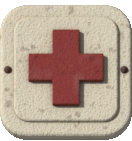
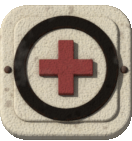
UI TWO WIP (rule 232(b)): the HEAL mark rendered as a medic's cross inside a ring through the rig; the ring's place measured into phone.json; the record
Claude-Session: https://claude.ai/code/session_01MoC3XDHbKuqFtWDyHUJc5P

diff --git a/tools/bohemia_ui2_phone_apps.py b/tools/bohemia_ui2_phone_apps.py
@@ -16,7 +16,8 @@ camera tipped 25 degrees so a bottom edge shows its thickness):
   app_relations  a pennant on a pole (whose side they are on: Battle Brothers' banners)
   app_settings   a gear (the phone's own settings page)
   app_combat     a dead-olive plate with a red crosshair: the phone's face when a fight starts
-  app_heal       a bone plate with a medic's cross in red: CAMP is the HEAL button (rule 226)
+  app_heal       a bone plate with a medic's cross in red inside a ring: CAMP is the HEAL button (rules 226, 232(b));
+                 the ring is the track the page fills with the company's blood and armour
   app_x          a dead-olive plate with a bone X: the job card's drop (rule 227)
   case           the handset: a dead-olive tin frame with a rivet at each corner round a hole the screen shows through,
                  one picture the page slices (border-image) so it stands at the phone's one size on every screen
@@ -126,9 +127,27 @@ def G_combat():
 
 
 def G_heal():
-    """rule 226: the CAMP app is the HEAL button: a medic's cross struck in red"""
-    a, b, c, d = 9.5, 17.5, 26.5, 34.5   # one outline: two crossed bars as one shape (overlapping solids render a hole)
-    return [(ccw([(b, a), (c, a), (c, b), (d, b), (d, c), (c, c), (c, d), (b, d), (b, c), (a, c), (a, b), (b, b)]), RED, 1.6)]
+    """rule 232(b), Paolo 10/26: 'the camp will be like a medical icon maybe in a circle': a medic's cross struck in red inside a
+    ring pressed into the plate; the ring is the TRACK the page fills with the company's blood and armour (rule 226(c)), so it
+    is struck low and dark, the empty part what is missing"""
+    a, b, c, d = 13.0, 19.4, 24.6, 31.0   # one outline: two crossed bars as one shape (overlapping solids render a hole)
+    return [('ring', (circle(22.0, 22.0, 17.6, 56), circle(22.0, 22.0, 13.4, 56)), INK, 0.7),
+            (ccw([(b, a), (c, a), (c, b), (d, b), (d, c), (c, c), (c, d), (b, d), (b, c), (a, c), (a, b), (b, b)]), RED, 1.6)]
+
+
+def ring_of(png):
+    """where the ring's track landed on the rendered icon (the camera tips it and lifts it by its height): its centre and radii
+    as fractions of the picture, read off the dark pixels, for the page's gauge (phone.json app_heal.ring)"""
+    from PIL import Image
+    a = np.asarray(Image.open(png).convert('RGBA')).astype(float)
+    h, w = a.shape[:2]; lum = a[..., :3].mean(axis=2); dark = (a[..., 3] > 200) & (lum < 70)
+    ys, xs = np.nonzero(dark)
+    cx, cy = w / 2.0, h / 2.0
+    for _ in range(4):   # the ring's own pixels only (the cross's shade inside and the plate's edge outside left out)
+        r = np.hypot(xs - cx, ys - cy); k = (r > 0.25 * w) & (r < 0.46 * w); cx, cy = xs[k].mean(), ys[k].mean()
+    r = np.hypot(xs - cx, ys - cy); k = (r > 0.25 * w) & (r < 0.46 * w)
+    ro, ri = np.percentile(r[k], 98), np.percentile(r[k], 2)
+    return dict(cx=round(float(cx / w), 4), cy=round(float(cy / h), 4), ro=round(float(ro / w), 4), ri=round(float(ri / w), 4))
 
 
 def G_x():
@@ -207,6 +226,7 @@ def render_icon(name):
     os.makedirs(SHIP, exist_ok=True)
     Image.fromarray(a.astype(np.uint8), 'RGBA').save(os.path.join(SHIP, name + '.png'), optimize=True)
     meta = dict(w=W, h=H + lip, up=UP, lip=lip)
+    if name == 'app_heal': meta['ring'] = ring_of(os.path.join(SHIP, name + '.png'))
     print('  icon', name, meta, flush=True)
     return meta
 

diff --git a/records/BOHEMIA_UI_TWO_THE_PHONE_ONE_PHONE_ONE_PLACE_10_26_26.md b/records/BOHEMIA_UI_TWO_THE_PHONE_ONE_PHONE_ONE_PLACE_10_26_26.md
@@ -31,8 +31,9 @@ ONE FUNCTION EVERY SCREEN READS (for RUN, RUN TWO and COMBAT's [... frames aroun
 THE FIVE APPS, rendered through the rig (tools/bohemia_ui2_phone_apps.py imports the kit's tin, masks, light and camera;
 three texels a point; slices/phone/): PLAY/PAUSE (amber, the big slot; the clock and the march, travelSpeedSet, the
 spacebar's door; the last speed its mark, 1.22x; a held press opens the speeds, one on the map for now), CREW (the social
-app's people; the bar's own CREW door), HEAL (rule 226: a red cross over ONE bar, the company's hitpoints red and armour grey
-over their maxima; a tap makes camp, BREAK CAMP breaks it), FEED (his company's page: its name, one tap to rename, the game's
+app's people; the bar's own CREW door), HEAL (rule 226: a red cross over ONE bar, CAMP's own bar drawn by CAMP's own call, BohemiaCondition.drawBar over
+BohemiaMapCamp.condition(): the company's blood red and armour grey, the dark part what is missing; a tap is CAMP's
+BohemiaMapCamp.toggle(), making camp on the map and BREAK CAMP over it), FEED (his company's page: its name, one tap to rename, the game's
 one name `BohemiaCompanyName`, and the feed says 'We go by THE DUST LOT now'; the city's posts under it, the handle first,
 no faces, rule 217), RELATIONS (every town, Battle Brothers' nine bands and the number, and the last thing that moved it).
 The hour is on the phone ONCE, the clock beside PLAY (GOING / STOPPED / IN TOWN / RESTING under it); the status bar says where
@@ -60,8 +61,10 @@ THE SETTINGS: the game's SETTINGS card carries THE PHONE (CORNER LEFT | RIGHT; e
 app takes the big slot); a finger held on the phone's home opens it. LEFT mirrors the phone at once, no reload.
 
 WHAT STEPPED ASIDE (212(g)): on the map the old phone, the speed pad and the CAMP plate are hidden by the phone's own
-stylesheet (RUN's code untouched; the lines are marked __ONE_PHONE__ for RUN to take out). The town's LEAVE stands over the
-phone in its corner (one marked line in UI's TOWN lift). The company screen's stash stands beside the phone under 700 wide.
+stylesheet (RUN's code untouched; the lines are marked __ONE_PHONE__ for RUN to take out). CAMP's own HEAL plate (#campbtn) and the camp's #healbtn stand down
+under the phone the same way, as CAMP's note asked. The town's LEAVE stands over the phone in its corner (one marked line in
+UI's TOWN lift). The map's spoken line stands beside the phone (bottoms level) or over it, never under it (one marked line in
+UI's voicePlace); WORLD's job names at the glass's edge step round the phone's box (one marked line in bohemia_job_kinds.js). The company screen's stash stands beside the phone under 700 wide.
 DYNASTY's SWITCH TIMELINE lived in the old opened phone: after the first crisis the new phone's status bar shows a TIMELINE tag
 that opens that same door.
 
@@ -70,8 +73,6 @@ gates/the_phone_gate.js, THE PHONE (in the suite): phone upright, on its side, a
 the phone upright, all green on its side and on the computer on this tree (the counts are in the commit). Four plants bite.
 
 ## WEAK, SAID
-- HEAL's bar is full until CAMP hands the company's condition (`window.BohemiaHeal.condition()` -> {hp, hpMax, arm, armMax});
-  damage does not stay between fights yet (rule 226(a), CAMP's row).
 - PLAY to the job goes to the job's own block; the way back to the paying town is RUN's [play takes you there].
 - The fight's bar is narrowed by the phone's band, not re-laid: on the phone upright the AP line runs under END TURN.
 - The phone is taller (276) than the first cut (212) to hold the job column; the cameras are not framing around it yet
